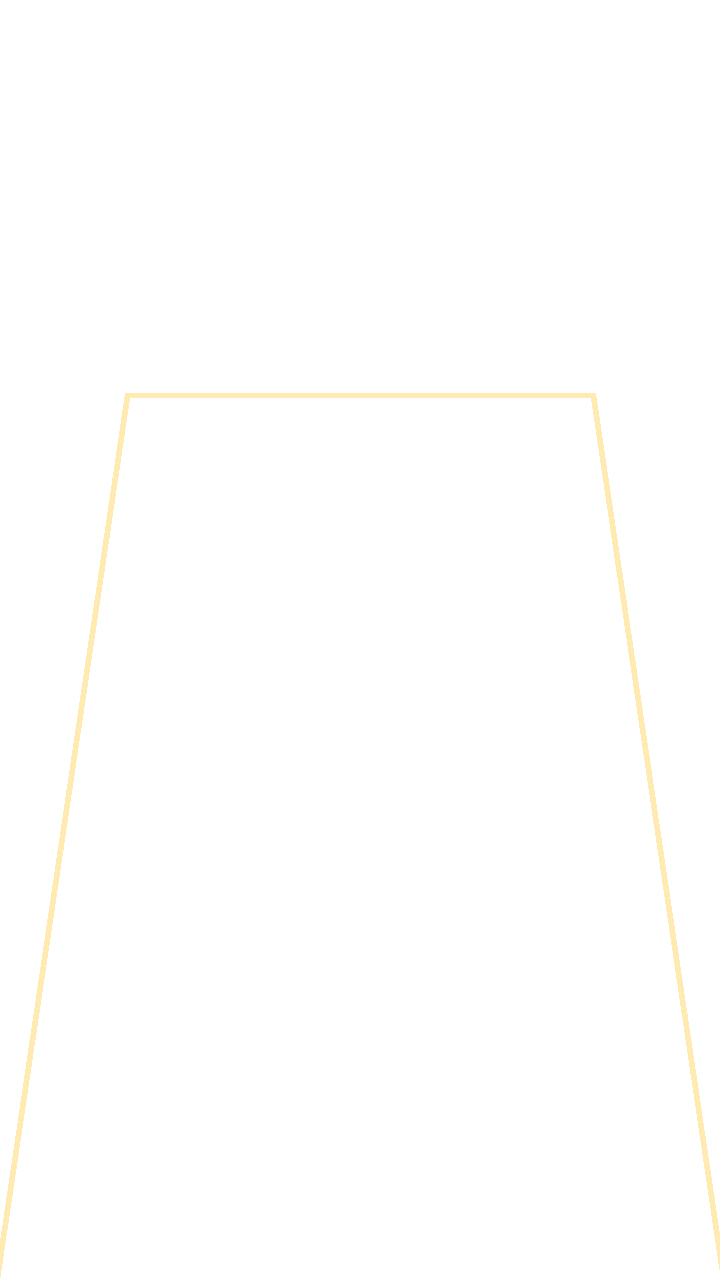
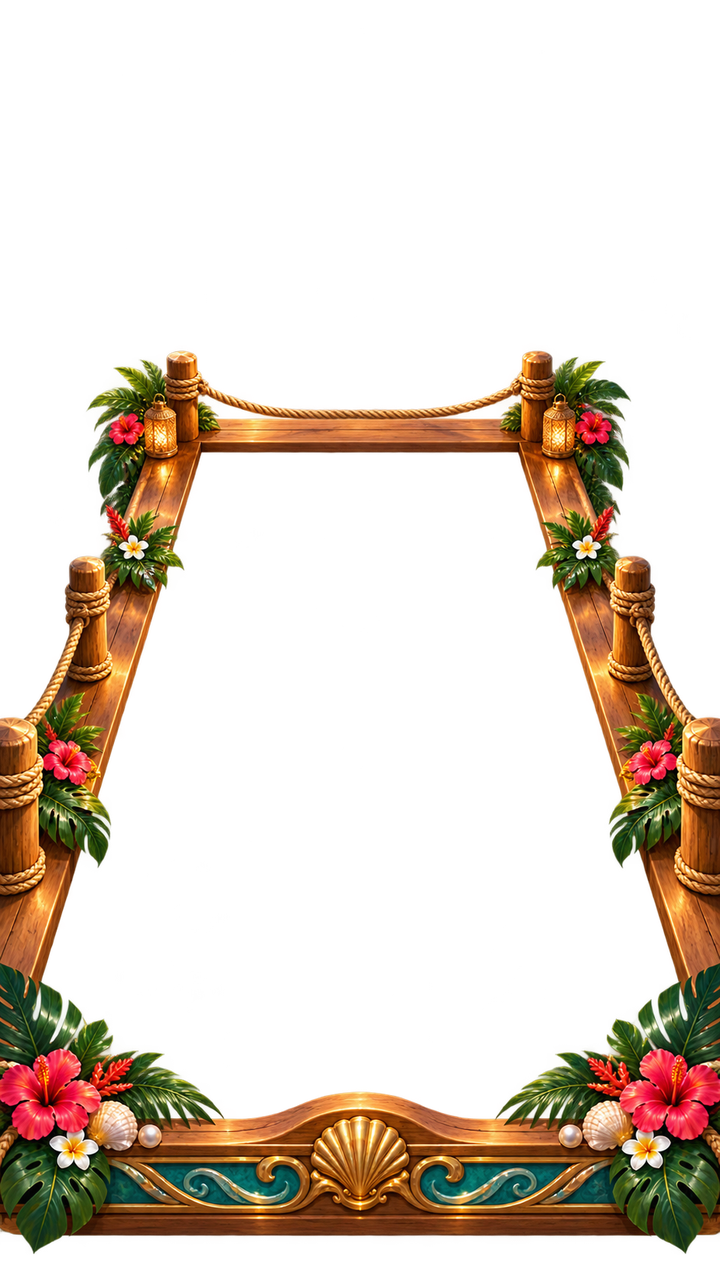
visual: publish table edge overlay

Changed region(s): [[0.0, 0.25, 1.0, 1.0]]

diff --git a/coordination/codex_visual_assets/CODEX_VISUAL_ASSET_LOG.md b/coordination/codex_visual_assets/CODEX_VISUAL_ASSET_LOG.md
@@ -421,6 +421,19 @@ V05 production visuals are owner-rejected and are not style authority.
 - Remote canonical paths verified: 9/9 Tutorial targets present.
 - Worktree was clean before this publication-record append.
 
+## Batch 032 — Table edge overlay
+
+- Timestamp: 2026-09-22 13:24:52 +03:00.
+- Tasks: VA-321 only.
+- Output: `assets/ui_assets/tables/table_edge_overlay_master.png`.
+- Generation: one separate built-in image-generation operation for this distinct non-protected production target; the approved V04 `main_menu_master.png` was the direct primary authority and both approved style boards were secondary references. VA-322 protected silhouette mask was not used as a generated source or modified.
+- Technical cleanup: transparent RGBA conversion and exact 720x1280 canvas normalization only.
+- Geometry QA: transparent playable interior preserved; rear edge, perspective side rails and front edge visually follow the frozen table geometry contract around rear points `(130,398)` and `(590,398)` and front corners `(0,1280)` and `(720,1280)`.
+- Rejected/regenerated attempts: none.
+- QA: exact-size RGBA PNG with alpha extrema `(0, 255)`; protected VA-322 remains unchanged.
+- Blockers: none.
+- Commit/push: pending publication and remote verification.
+
 ## Batch 030 publication record
 
 - Implementation commit: `e0eefcfa745ed0b127e163537dd0dc6bdf82fd20`.

diff --git a/coordination/codex_visual_assets/CODEX_VISUAL_PRODUCTION_MASTER_LOG.md b/coordination/codex_visual_assets/CODEX_VISUAL_PRODUCTION_MASTER_LOG.md
@@ -475,3 +475,11 @@ Append one concise section per visual batch:
 - Remote branch HEAD: `1ded733d589da61945bbb6eeb2356a6a313ce9ce`.
 - Remote canonical paths verified: 9/9 Tutorial targets present.
 - Official logs and the dedicated tracker are present on the remote visual branch.
+
+## Batch 032 — Table edge overlay
+
+- Timestamp: 2026-09-22 13:24:52 +03:00.
+- Dedicated targets generated: 1, VA-321.
+- Separate built-in image-generation operation used for the table edge overlay with V04 Main Menu authority and both approved style boards as secondary references; no V05 visuals or atlas slicing used.
+- Validation: 720x1280 RGBA with true transparent alpha; transparent interior and frozen perspective edge geometry were visually inspected. Protected VA-322 was not modified.
+- Publication: pending commit and push to `codex/visual-assets-production`.

diff --git a/coordination/codex_visual_assets/CODEX_VISUAL_ASSET_TASKS.md b/coordination/codex_visual_assets/CODEX_VISUAL_ASSET_TASKS.md
@@ -336,7 +336,7 @@ Protected canonical logo is pre-marked preserved.
 - [x] VA-318 Generate → `assets/ui_assets/screens/tutorial/tutorial_vip_badge.png`
 - [x] VA-319 PRESERVE → `assets/ui_assets/source/style_reference_board.png`
 - [x] VA-320 PRESERVE → `assets/ui_assets/source/style_reference_board_remediation_v01.png`
-- [ ] VA-321 Generate → `assets/ui_assets/tables/table_edge_overlay_master.png`
+- [x] VA-321 Generate → `assets/ui_assets/tables/table_edge_overlay_master.png`
 - [x] VA-322 PRESERVE → `assets/ui_assets/tables/table_silhouette_mask.png`
 - [ ] VA-323 Generate → `assets/ui_assets/ui/boosters/booster_count_badge.png`
 - [ ] VA-324 Generate → `assets/ui_assets/ui/boosters/booster_hammer.png`
